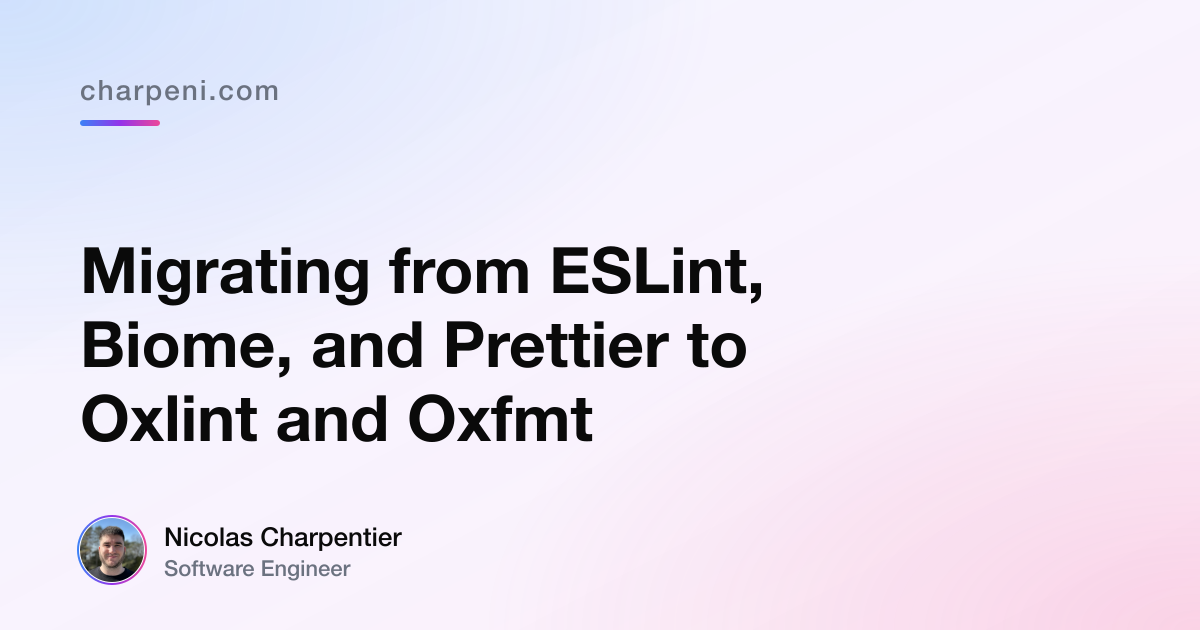
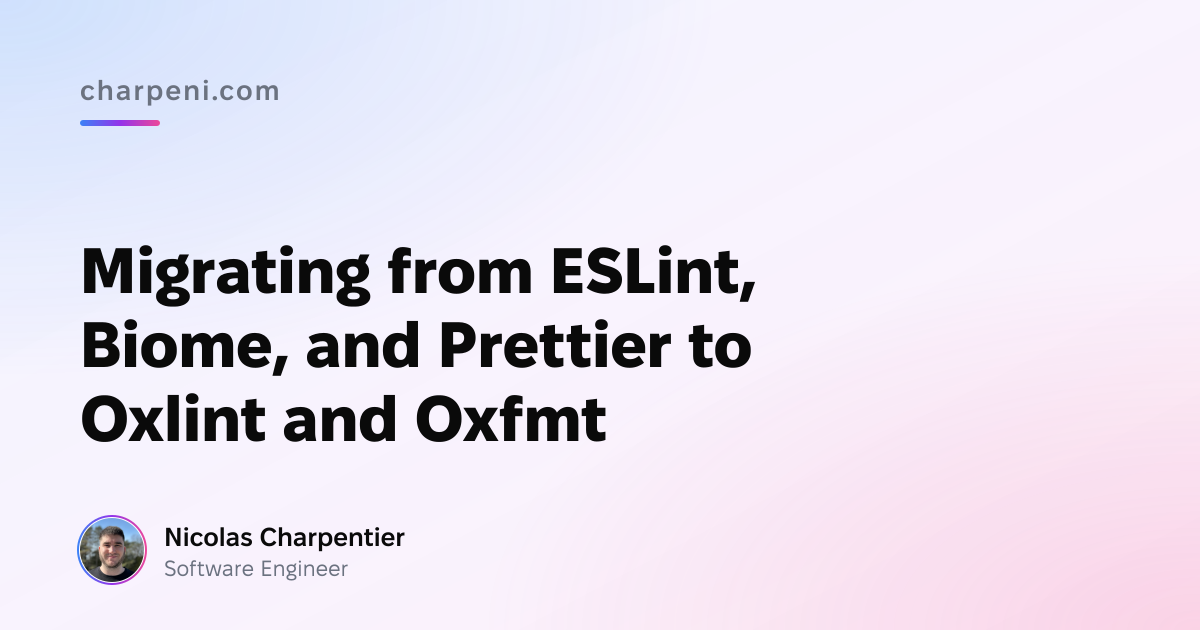
Render OG-card text as outlined glyphs so generation is portable
The OG generator drew titles with SVG <text>, which librsvg only
resolves through system fontconfig. On any box without the right fonts
installed (CI runners, non-macOS machines) that produced blank/tofu
cards, so the images could only be regenerated on the author's Mac.

Render each line as outlined glyph paths from the site's bundled Fixel
font via fontkit instead. Glyph <path>s need no fonts at raster time, so
output is now byte-identical on any machine or CI runner, and the cards
pick up the site's own typography.

Regenerate all five banner-less posts' og.png: the three that were
falling back to the sitewide default (ai-turned-…, speeding-up-checkout-…,
visualizing-garmin-…) plus the two existing cards, now consistent. fontkit
is build-time only (devDependencies).

diff --git a/scripts/generateOgImages.ts b/scripts/generateOgImages.ts
@@ -11,11 +11,13 @@
  * Run manually after adding or renaming a post:
  *   node scripts/generateOgImages.ts
  *
- * Then commit the regenerated PNG(s). Like `og-default.png`, these are
- * committed to the repo so the build pipeline never has to rasterize text —
- * this avoids font-rendering differences between local macOS and the Linux
- * build environment.
+ * Then commit the regenerated PNG(s). Titles are drawn as outlined glyph
+ * paths from the site's bundled Fixel font (see `textToPaths`), never SVG
+ * `<text>`, so the output is byte-identical on any machine or CI runner and
+ * never depends on system fonts / fontconfig being installed.
  */
+
+import { create as createFont } from 'fontkit';
 
 import { mkdir, readFile, readdir } from 'node:fs/promises';
 import path from 'node:path';
@@ -48,6 +50,21 @@ const ROOT = process.cwd();
 const POSTS_DIR = path.join(ROOT, 'posts');
 const IMAGES_DIR = path.join(ROOT, 'public', 'static', 'images');
 const AVATAR_PATH = path.join(IMAGES_DIR, 'nicolas_charpentier.jpeg');
+const FONTS_DIR = path.join(ROOT, 'public', 'fonts');
+
+/**
+ * The site's display font (Fixel Text), loaded once. Titles render as outlined
+ * glyph paths (see `textToPaths`) instead of SVG `<text>` because librsvg only
+ * resolves `<text>` through system fontconfig — absent in many CI runners and
+ * not reproducible across machines. Outlining the glyphs ourselves makes every
+ * card byte-identical anywhere and matches the site's own typography.
+ */
+async function loadFont(file) {
+  return createFont(await readFile(path.join(FONTS_DIR, file)));
+}
+const fontExtraBold = await loadFont('FixelText-ExtraBold.woff2');
+const fontSemiBold = await loadFont('FixelText-SemiBold.woff2');
+const fontRegular = await loadFont('FixelText-Regular.woff2');
 
 // Colors are taken from the homepage gradient (`GradientAnimation.module.css`):
 //   blue-500   #3b82f6
@@ -57,16 +74,27 @@ const AVATAR_PATH = path.join(IMAGES_DIR, 'nicolas_charpentier.jpeg');
 // the sitewide fallback.
 
 /**
- * Escape characters that have meaning in XML so titles with quotes, ampersands,
- * or angle brackets don't break the SVG.
+ * Render one line of text as filled glyph outlines. fontkit shapes the run
+ * (kerning/ligatures); each glyph path comes back in font units with a y-up
+ * baseline, so we translate it into place and flip Y (SVG points down) with a
+ * negative scale. Returns the advance width too, for callers that center.
  */
-function escapeXml(value: string): string {
-  return value
-    .replaceAll('&', '&amp;')
-    .replaceAll('<', '&lt;')
-    .replaceAll('>', '&gt;')
-    .replaceAll('"', '&quot;')
-    .replaceAll("'", '&apos;');
+function textToPaths(font, text, { x, y, fontSize, fill, letterSpacing = 0 }) {
+  const scale = fontSize / font.unitsPerEm;
+  const run = font.layout(text);
+  let penX = 0;
+  const glyphs = [];
+  run.glyphs.forEach((glyph, index) => {
+    const d = glyph.path.toSVG();
+    if (d) {
+      const gx = (x + penX).toFixed(2);
+      glyphs.push(
+        `<path transform="translate(${gx} ${y.toFixed(2)}) scale(${scale.toFixed(5)} ${(-scale).toFixed(5)})" d="${d}" fill="${fill}" />`,
+      );
+    }
+    penX += run.positions[index].xAdvance * scale + letterSpacing;
+  });
+  return { svg: glyphs.join(''), width: penX };
 }
 
 /**
@@ -125,12 +153,40 @@ async function buildSvg(title: string): Promise<string> {
   const titleBlockHeight = lines.length * lineHeight;
   const titleTop = 180 + (300 - titleBlockHeight) / 2;
 
-  const titleTspans = lines
+  const titlePaths = lines
     .map(
       (line, index) =>
-        `<tspan x="80" y="${titleTop + (index + 1) * lineHeight}">${escapeXml(line)}</tspan>`,
+        textToPaths(fontExtraBold, line, {
+          x: 80,
+          y: titleTop + (index + 1) * lineHeight,
+          fontSize,
+          fill: '#0a0a0a',
+        }).svg,
     )
     .join('');
+
+  const eyebrow = textToPaths(fontSemiBold, 'charpeni.com', {
+    x: 80,
+    y: 100,
+    fontSize: 28,
+    fill: '#6b7280',
+    letterSpacing: 2,
+  }).svg;
+
+  const bylineX = avatarCx + avatarR + 20;
+  const byline =
+    textToPaths(fontSemiBold, 'Nicolas Charpentier', {
+      x: bylineX,
+      y: avatarCy - 4,
+      fontSize: 26,
+      fill: '#0a0a0a',
+    }).svg +
+    textToPaths(fontRegular, 'Software Engineer', {
+      x: bylineX,
+      y: avatarCy + 26,
+      fontSize: 22,
+      fill: '#6b7280',
+    }).svg;
 
   return `<?xml version="1.0" encoding="UTF-8"?>
 <svg xmlns="http://www.w3.org/2000/svg" xmlns:xlink="http://www.w3.org/1999/xlink" width="${WIDTH}" height="${HEIGHT}" viewBox="0 0 ${WIDTH} ${HEIGHT}">
@@ -167,25 +223,10 @@ async function buildSvg(title: string): Promise<string> {
   <!-- Accent bar -->
   <rect x="80" y="120" width="80" height="6" rx="3" fill="url(#accent)" />
 
-  <g font-family="-apple-system, BlinkMacSystemFont, 'Segoe UI', Roboto, 'Helvetica Neue', Arial, sans-serif">
-    <!-- Eyebrow -->
-    <text x="80" y="100" font-size="28" font-weight="600" fill="#6b7280" letter-spacing="2">
-      charpeni.com
-    </text>
-
-    <!-- Title -->
-    <text font-size="${fontSize}" font-weight="800" fill="#0a0a0a">
-      ${titleTspans}
-    </text>
-
-    <!-- Byline -->
-    <text x="${avatarCx + avatarR + 20}" y="${avatarCy - 4}" font-size="26" font-weight="600" fill="#0a0a0a">
-      Nicolas Charpentier
-    </text>
-    <text x="${avatarCx + avatarR + 20}" y="${avatarCy + 26}" font-size="22" font-weight="500" fill="#6b7280">
-      Software Engineer
-    </text>
-  </g>
+  <!-- Eyebrow, title, and byline as outlined glyph paths (see textToPaths) -->
+  ${eyebrow}
+  ${titlePaths}
+  ${byline}
 
   <!-- Avatar: gradient ring + clipped photo -->
   <circle cx="${avatarCx}" cy="${avatarCy}" r="${avatarR + ringWidth}" fill="url(#accent)" />
